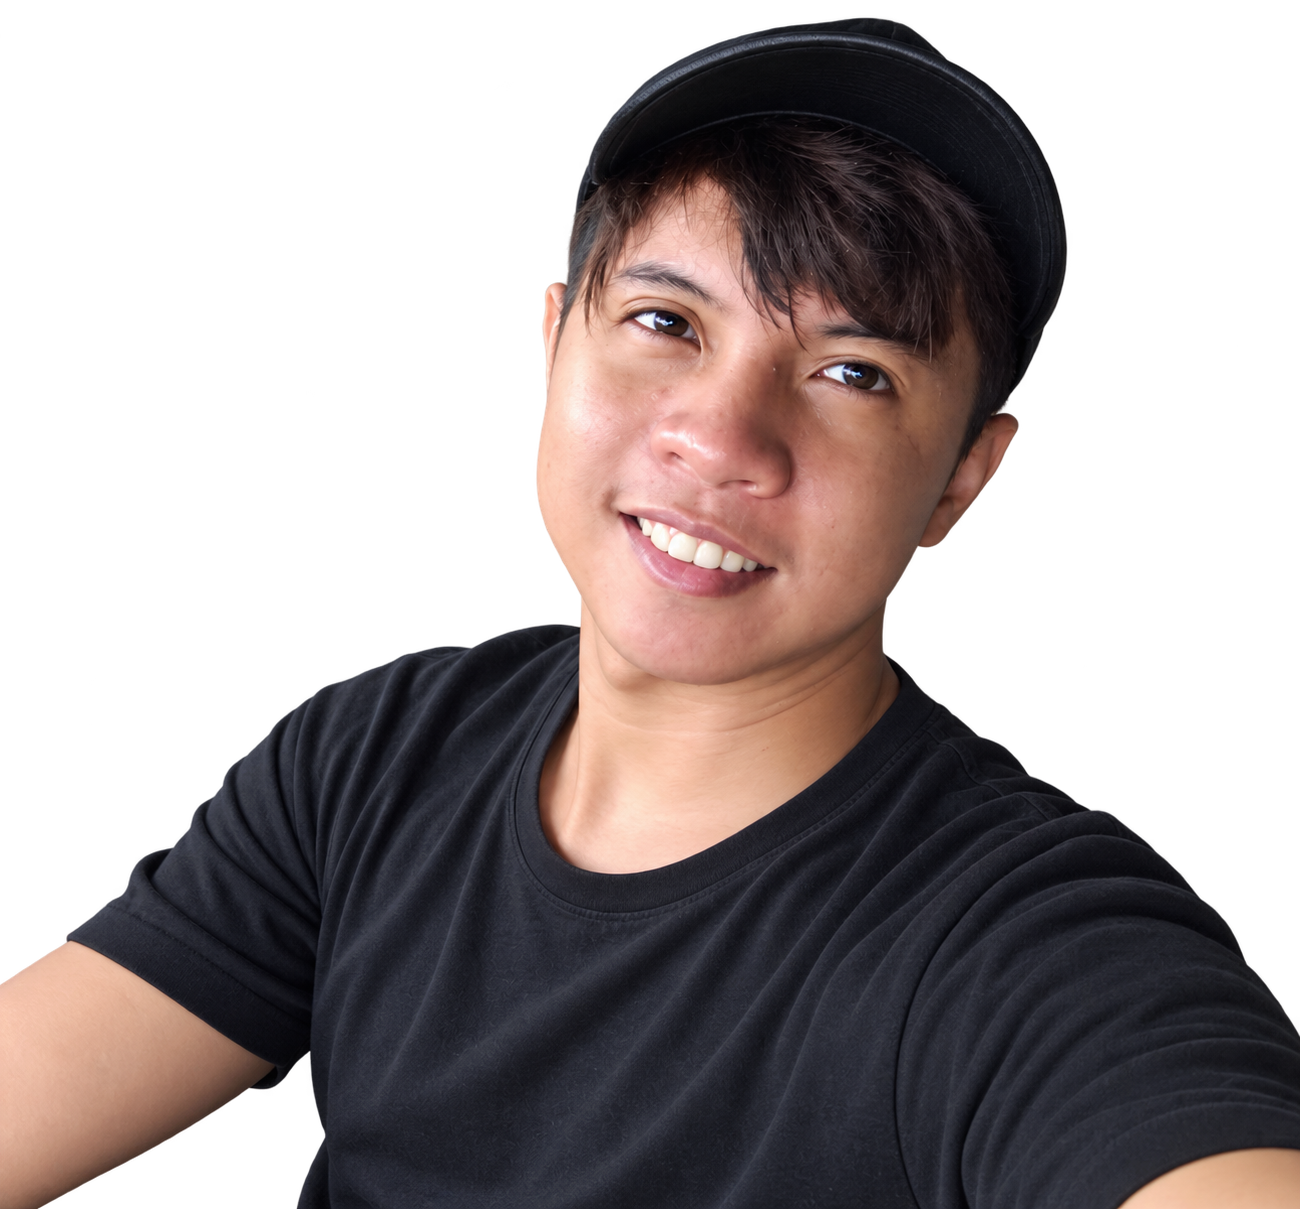
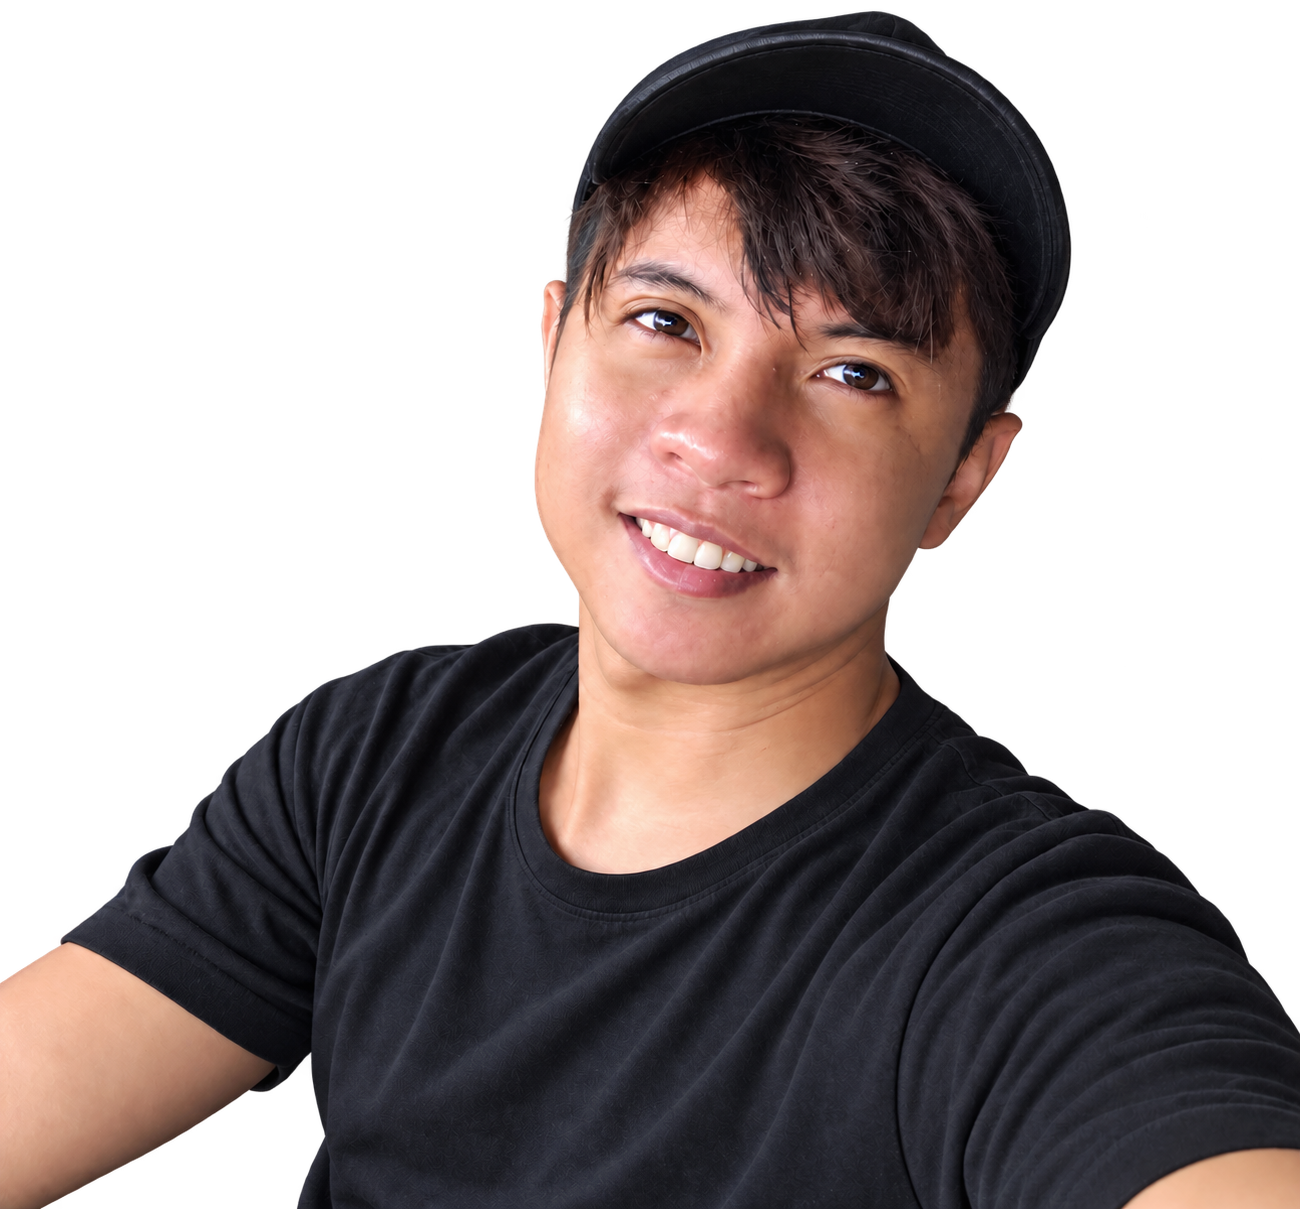
update

diff --git a/src/pages/home/sections/Technologies/components/LogoCarousel.tsx b/src/pages/home/sections/Technologies/components/LogoCarousel.tsx
@@ -1,0 +1,149 @@
+import { Mapper } from "@dev-waren/react-form-kit";
+import gsap from "gsap";
+import { useLayoutEffect, useRef } from "react";
+import {
+	SiFramer,
+	SiGo,
+	SiGsap,
+	SiMongodb,
+	SiNextdotjs,
+	SiNodedotjs,
+	SiReact,
+	SiTailwindcss,
+	SiTanstack,
+	SiTypescript,
+} from "react-icons/si";
+
+const logos = [
+	{ name: "React", icon: SiReact },
+	{ name: "TypeScript", icon: SiTypescript },
+	{ name: "TanStack", icon: SiTanstack },
+	{ name: "MongoDB", icon: SiMongodb },
+	{ name: "Tailwind CSS", icon: SiTailwindcss },
+	{ name: "Node.js", icon: SiNodedotjs },
+	{ name: "GSAP", icon: SiGsap },
+	{ name: "Framer", icon: SiFramer },
+	{ name: "Next.js", icon: SiNextdotjs },
+	{ name: "Go", icon: SiGo },
+];
+
+export default function LogoCarousel() {
+	const trackRef = useRef<HTMLDivElement>(null);
+	const wrapperRef = useRef<HTMLDivElement>(null);
+
+	useLayoutEffect(() => {
+		const track = trackRef.current;
+		const wrapper = wrapperRef.current;
+
+		if (!track || !wrapper) return;
+
+		const ctx = gsap.context(() => {
+			const items = gsap.utils.toArray<HTMLElement>(".marquee-item");
+
+			const firstSet = items.slice(0, logos.length);
+
+			const distance = firstSet.reduce(
+				(total, item) => total + item.offsetWidth,
+				0,
+			);
+
+			const tween = gsap.to(track, {
+				x: -distance,
+				duration: 32,
+				ease: "none",
+				repeat: -1,
+				modifiers: {
+					x: gsap.utils.unitize((value) => parseFloat(value) % distance),
+				},
+			});
+
+			const pause = () => gsap.to(tween, { timeScale: 0.15, duration: 0.5 });
+			const play = () => gsap.to(tween, { timeScale: 1, duration: 0.8 });
+
+			wrapper.addEventListener("mouseenter", pause);
+			wrapper.addEventListener("mouseleave", play);
+
+			return () => {
+				tween.kill();
+				wrapper.removeEventListener("mouseenter", pause);
+				wrapper.removeEventListener("mouseleave", play);
+			};
+		}, wrapper);
+
+		return () => ctx.revert();
+	}, []);
+
+	return (
+		<section className="relative w-full overflow-hidden py-16">
+			{/* Ambient background glow */}
+			<div className="pointer-events-none absolute left-1/2 top-1/2 h-40 w-[60%] -translate-x-1/2 -translate-y-1/2 rounded-full bg-primary/10 blur-[120px]" />
+
+			<div className="relative mx-auto max-w-7xl">
+				{/* Header */}
+				<div className="mb-10 flex flex-col items-center text-center">
+					<div className="mb-4 flex items-center gap-3">
+						<div className="h-px w-8 bg-border" />
+
+						<span className="text-[10px] font-bold uppercase tracking-[0.35em] text-muted-foreground">
+							Technology Ecosystem
+						</span>
+
+						<div className="h-px w-8 bg-border" />
+					</div>
+
+					<h2 className="text-2xl font-semibold tracking-tight sm:text-3xl">
+						Built with{" "}
+						<span className="text-muted-foreground">modern technologies</span>
+					</h2>
+
+					<p className="mt-3 max-w-md text-sm text-muted-foreground">
+						A carefully selected stack for building fast, scalable, and
+						maintainable digital experiences.
+					</p>
+				</div>
+
+				{/* Glass marquee container */}
+				<div
+					ref={wrapperRef}
+					className="group relative overflow-hidden rounded-2xl  bg-background/40 py-8 shadow-[0_0_80px_-30px_hsl(var(--primary)/0.25)] backdrop-blur-xl"
+				>
+					{/* Inner highlight */}
+					<div className="pointer-events-none absolute inset-0 rounded-2xl ring-1 ring-inset ring-white/4" />
+
+					{/* Left edge fade */}
+					<div className="pointer-events-none absolute inset-y-0 left-0 z-20 w-32 bg-linear-to-r from-background via-background/80 to-transparent" />
+
+					{/* Right edge fade */}
+					<div className="pointer-events-none absolute inset-y-0 right-0 z-20 w-32 bg-linear-to-l from-background via-background/80 to-transparent" />
+
+					{/* Moving track */}
+					<div ref={trackRef}>
+						<Mapper
+							listFor="logo"
+							items={[...logos, ...logos]}
+							className="flex w-max items-center gap-5"
+						>
+							{(item) => (
+								<div className="marquee-item group/item flex shrink-0 items-center">
+									<div className="flex items-center gap-3 rounded-xl border border-border/40 bg-background/50 px-5 py-3.5 text-muted-foreground/60 shadow-sm backdrop-blur-sm transition-all duration-300 hover:border-primary/30 hover:bg-primary/6 hover:text-foreground hover:shadow-[0_0_25px_-8px_hsl(var(--primary)/0.5)]">
+										<item.icon className="size-6 transition-transform duration-300 group-hover/item:scale-110" />
+
+										<span className="whitespace-nowrap text-sm font-semibold tracking-tight">
+											{item.name}
+										</span>
+									</div>
+								</div>
+							)}
+						</Mapper>
+					</div>
+				</div>
+
+				{/* Bottom detail */}
+				<div className="mt-5 flex items-center justify-center gap-2 text-[10px] font-medium uppercase tracking-[0.2em] text-muted-foreground/50">
+					<span className="size-1.5 rounded-full bg-emerald-500/70" />
+					Modern stack · Production ready
+				</div>
+			</div>
+		</section>
+	);
+}

diff --git a/src/pages/home/sections/selected-projects/SelectedProjects.tsx b/src/pages/home/sections/selected-projects/SelectedProjects.tsx
@@ -6,9 +6,9 @@ import { assets } from "#/assets/index.ts";
 
 const projects = [
 	{
-		title: "Magic 89.9 Website",
+		title: "Magic 89.9 ",
 		description:
-			"A modern radio station website with live streaming, shows, news, and interactive features.",
+			"A full-featured radio station platform with live streaming, show schedules, news publishing, interactive polls, and a dynamic content experience.",
 		image: assets.magic,
 		technologies: [
 			"React",
@@ -19,18 +19,18 @@ const projects = [
 		],
 	},
 	{
-		title: "GSNet System",
+		title: "Dog Ranch",
 		description:
-			"Internet service management platform for customer management, billing, and network monitoring.",
-		image: "/images/projects/gsnet.webp",
-		technologies: ["React", "TypeScript", "TanStack Query", "MongoDB"],
+			"A modern pet-focused web platform designed to showcase dog-related services, information, and an engaging user experience.",
+		image: assets.dogranch,
+		technologies: ["Vanilla-ts", "TypeScript", "TanStack Query", "MongoDB"],
 	},
 	{
-		title: "TaskFlow",
+		title: "TFlix",
 		description:
-			"A minimalist productivity application for task and project management.",
-		image: "/images/projects/taskflow.webp",
-		technologies: ["React", "Zustand", "Tailwind CSS", "PWA"],
+			"A lightweight movie discovery platform featuring movie details, latest releases, and a clean, responsive browsing experience.",
+		image: assets.movie,
+		technologies: ["Vanilla-ts", "Zustand", "Tailwind CSS"],
 	},
 ];
 
@@ -38,6 +38,7 @@ export default function SelectedProjects() {
 	const [emblaRef] = useEmblaCarousel({
 		loop: true,
 		align: "start",
+		active: true,
 	});
 
 	return (
@@ -76,12 +77,14 @@ export default function SelectedProjects() {
 				>
 					{(project) => (
 						<div className="grid min-w-0 flex-[0_0_100%] grid-rows-1 pl-3 sm:flex-[0_0_50%] lg:flex-[0_0_33.333%]">
-							<div className="grid h-full grid-rows-[auto_1fr] rounded-md border bg-white shadow-sm overflow-hidden">
-								<img
-									src={project.image}
-									alt={project.title}
-									className="aspect-video w-full object-cover"
-								/>
+							<div className="grid h-full grid-rows-[auto_1fr] rounded-md border bg-white shadow-sm overflow-hidden group">
+								<div className="overflow-hidden">
+									<img
+										src={project.image}
+										alt={project.title}
+										className="aspect-video w-full object-cover group-hover:scale-110 transition duration-300 ease-in-out"
+									/>
+								</div>
 
 								<div className="grid grid-rows-[auto_auto_1fr] gap-3 p-5">
 									<h3 className="text-xl font-semibold">{project.title}</h3>

diff --git a/src/pages/home/sections/Technologies/Technologies.tsx b/src/pages/home/sections/Technologies/Technologies.tsx
@@ -1,23 +1,38 @@
 import { Link } from "@tanstack/react-router";
+import { ArrowUpRight } from "lucide-react";
+import { LogoCarousel } from "./components";
 
 export default function Technologies() {
 	return (
-		<div>
-			<div className="flex justify-between">
-				<div>
-					<p className="mb-3 text-sm font-medium uppercase tracking-widest text-gray-400">
-						Technologies
-					</p>
+		<section className="relative">
+			<div className="flex flex-col justify-between gap-6 md:flex-row md:items-end">
+				<div className="max-w-2xl">
+					<div className="mb-5 flex items-center gap-3">
+						<p className="text-xs font-semibold uppercase tracking-[0.25em] text-gray-400">
+							Technologies
+						</p>
+					</div>
 
-					<h2 className="max-w-xl text-4xl font-medium tracking-tight text-gray-900">
+					<h2 className="text-4xl font-medium leading-[1.1] tracking-[-0.04em] text-gray-900 sm:text-5xl">
 						Tools I{" "}
-						<span className="text-gray-500">
+						<span className="text-gray-400">
 							use to build modern web applications.
 						</span>
 					</h2>
 				</div>
-				<Link to="/">More about my stack</Link>
+
+				<Link
+					to="/"
+					className="group inline-flex shrink-0 items-center gap-2 text-sm font-medium text-gray-500 transition-colors hover:text-gray-900"
+				>
+					More about my stack
+					<ArrowUpRight className="size-4 transition-transform duration-300 group-hover:-translate-y-0.5 group-hover:translate-x-0.5" />
+				</Link>
 			</div>
-		</div>
+
+			<div className="mt-14">
+				<LogoCarousel />
+			</div>
+		</section>
 	);
 }

diff --git a/src/pages/home/sections/npm-packages/NPMPackages.tsx b/src/pages/home/sections/npm-packages/NPMPackages.tsx
@@ -1,3 +1,4 @@
+import { Mapper } from "@dev-waren/react-form-kit";
 import { ExternalLink, Form, IceCreamCone, Leaf } from "lucide-react";
 
 const packages = [
@@ -39,7 +40,7 @@ const packages = [
 
 export default function NpmPackages() {
 	return (
-		<section className="border-t border-gray-200 py-8">
+		<section className="border-t border-gray-200 pt-8">
 			<div className="mb-12 flex items-end justify-between">
 				<div>
 					<p className="mb-3 text-sm font-medium uppercase tracking-widest text-gray-400">
@@ -65,8 +66,12 @@ export default function NpmPackages() {
 				</a>
 			</div>
 
-			<div className="divide-y divide-gray-200 border-y border-gray-200">
-				{packages.map((pkg) => (
+			<Mapper
+				listFor="packages"
+				items={packages}
+				className="divide-y divide-gray-200 border-y border-gray-200"
+			>
+				{(pkg) => (
 					<div
 						key={pkg.name}
 						className="group grid gap-6 py-8 md:grid-cols-[1fr_1.5fr_auto] md:items-center"
@@ -111,8 +116,8 @@ export default function NpmPackages() {
 							</a>
 						</div>
 					</div>
-				))}
-			</div>
+				)}
+			</Mapper>
 		</section>
 	);
 }

diff --git a/src/shared/layouts/components/Navbar/Navbar.tsx b/src/shared/layouts/components/Navbar/Navbar.tsx
@@ -1,6 +1,7 @@
 import { Mapper } from "@dev-waren/react-form-kit";
 import { Link } from "@tanstack/react-router";
 import moment from "moment-timezone";
+import { assets } from "#/assets/index.ts";
 
 const links = [
 	{
@@ -30,12 +31,14 @@ export default function Navbar() {
 
 	return (
 		<div className="border-b border-b-gray-200 p-4 flex items-center justify-between sticky top-0 bg-white z-90">
-			<div>
-				<p className="text-gray-600 font-semibold text-2xl">
-					Waren<span className="text-gray-900">.dev</span>
-				</p>
-
-				<p className="text-gray-400 text-sm">{manilaTime}</p>
+			<div className="flex gap-4">
+				<img src={assets.devlogo} alt="dev logo" className="w-8 h-8" />
+				<div>
+					<p className="text-gray-600 font-semibold text-2xl">
+						Waren<span className="text-gray-900">.dev</span>
+					</p>
+					<p className="text-gray-400 text-sm">{manilaTime}</p>
+				</div>
 			</div>
 			<Mapper
 				listFor="nav-links"

diff --git a/src/pages/home/sections/hero/Hero.tsx b/src/pages/home/sections/hero/Hero.tsx
@@ -3,7 +3,7 @@ import { assets } from "#/assets/index.ts";
 
 export default function Hero() {
 	return (
-		<div className="min-h-[30em] overflow-hidden flex items-center ">
+		<div className="min-h-[30em] overflow-hidden flex items-center">
 			<div className="flex-1 space-y-8">
 				<div className="max-w-[90%] text-gray-400 text-5xl leading-[1.2em]">
 					<p>
@@ -35,8 +35,13 @@ export default function Hero() {
 					</button>
 				</div>
 			</div>
-			<div className="flex-1 rounded-b-4xl overflow-hidden ">
+			<div className="flex-1 rounded-b-4xl overflow-hidden relative">
 				<img src={assets.devwaren} alt="dev-waren" />
+				<img
+					src={assets.devwaren}
+					alt="dev-waren"
+					className="absolute left-[-5%] size-full top-0 -z-1 opacity-20"
+				/>
 			</div>
 		</div>
 	);

diff --git a/src/assets/index.ts b/src/assets/index.ts
@@ -1,7 +1,13 @@
 import devwaren from "./devwaren.webp";
+import dogranch from "./dogranch.png";
 import magic from "./magic.png";
+import movie from "./movie.png";
+import devlogo from "./tech/devwaren.webp";
 
 export const assets = {
 	devwaren,
 	magic,
+	devlogo,
+	movie,
+	dogranch,
 };

diff --git a/src/pages/home/sections/Technologies/components/index.ts b/src/pages/home/sections/Technologies/components/index.ts
@@ -1,0 +1,1 @@
+export { default as LogoCarousel } from "./LogoCarousel";
